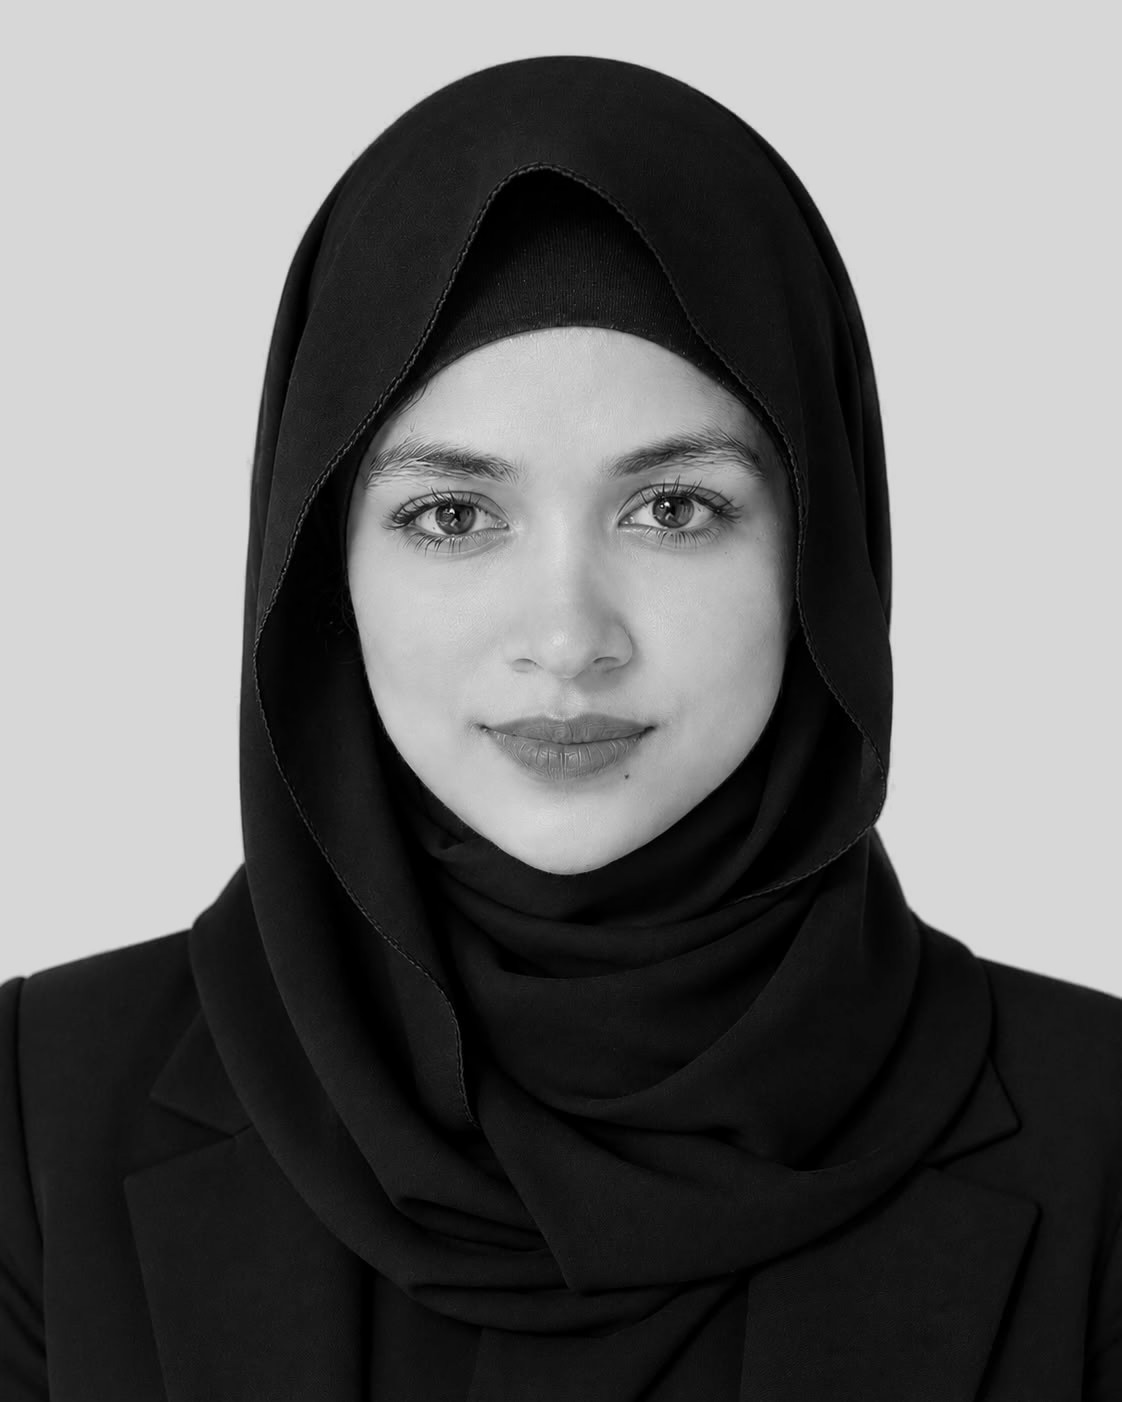
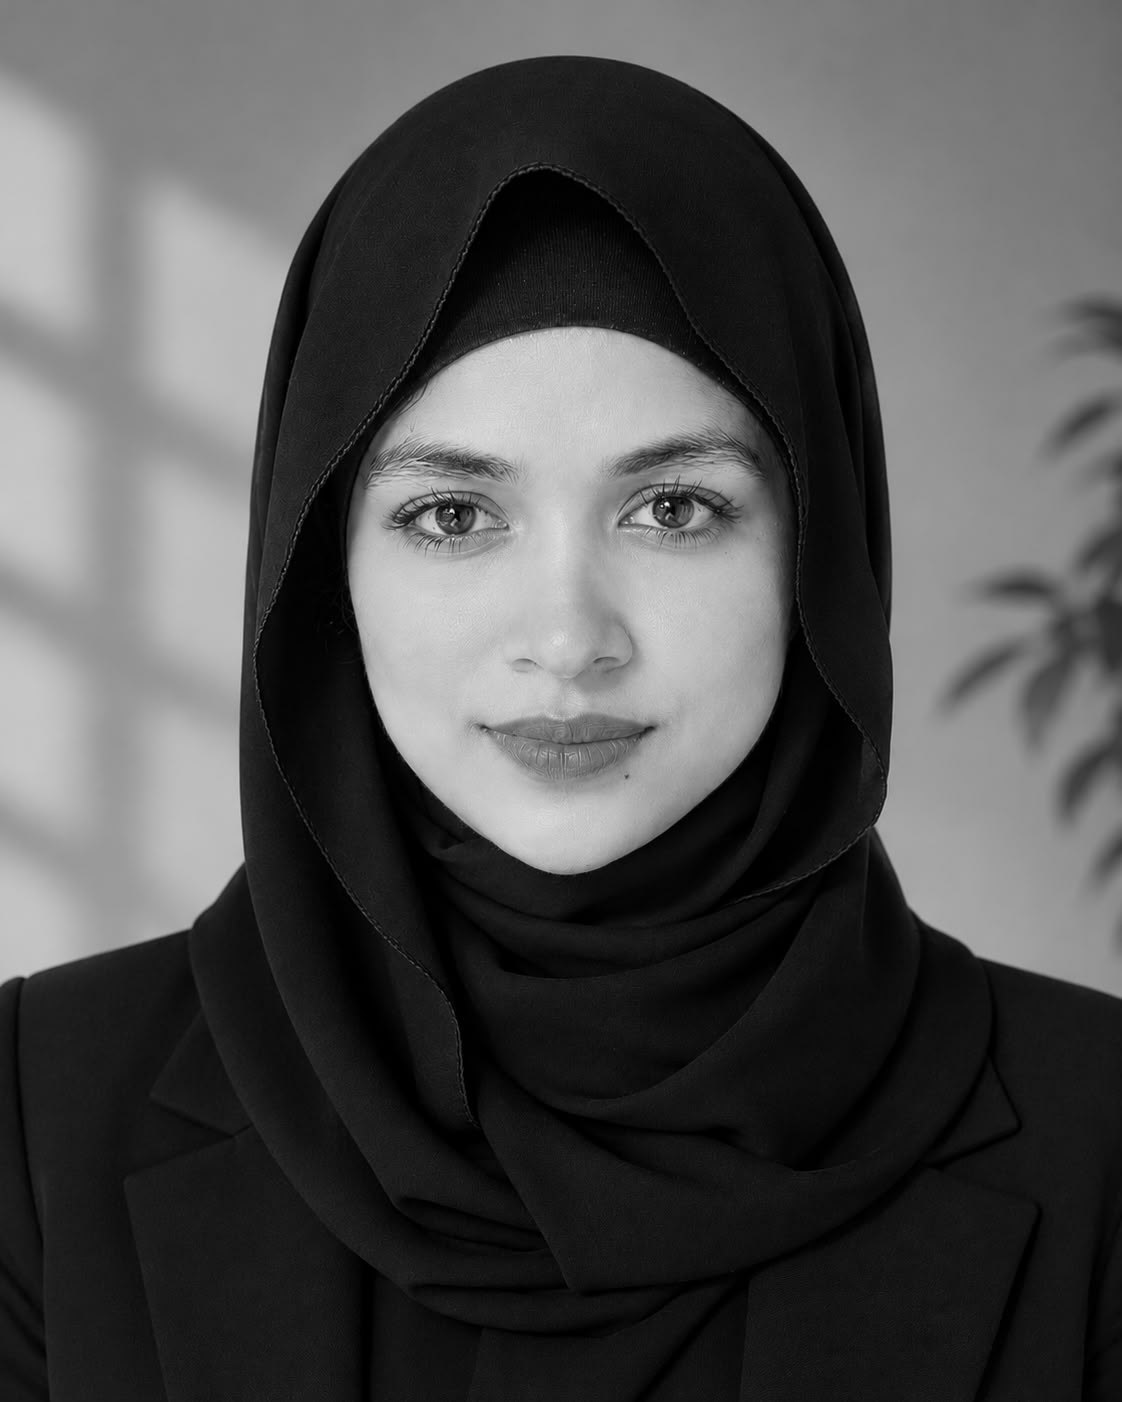
Portrait: restore original background, keep black and white
Claude-Session: https://claude.ai/code/session_01CcL7wFDHEa9dt9SNUbpBS5

diff --git a/about/index.html b/about/index.html
@@ -288,7 +288,7 @@ a.copy{display:inline-block;margin-top:14px;text-decoration:none}
 <header class="site-head">
   <div class="frame head-row">
     <a class="wordmark" href="../" aria-label="Sonia Sultana Tulona, home">
-      <img class="brand-mark" src="../portrait.jpg?v=bw2" width="40" height="40" alt="">
+      <img class="brand-mark" src="../portrait.jpg?v=bw3" width="40" height="40" alt="">
       <b>Tulona<span class="brand-dot">.</span></b>
     </a>
     <nav class="nav" aria-label="Sections">
@@ -322,7 +322,7 @@ a.copy{display:inline-block;margin-top:14px;text-decoration:none}
 
   <section class="sb">
     <aside class="sb-l">
-      <figure class="portrait"><img src="../portrait.jpg?v=bw2" width="900" height="1125" alt="Portrait of Sonia Sultana Tulona"><figcaption>Sonia Sultana Tulona</figcaption></figure>
+      <figure class="portrait"><img src="../portrait.jpg?v=bw3" width="900" height="1125" alt="Portrait of Sonia Sultana Tulona"><figcaption>Sonia Sultana Tulona</figcaption></figure>
       <div class="off"><p class="me-k">Off the clock</p><ul><li>Traveling</li><li>Lifting</li><li>Reading</li><li>Planning</li><li>Snack hunting</li><li>Side questing</li></ul></div>
     </aside>
     <div class="sb-r">

diff --git a/index.html b/index.html
@@ -292,7 +292,7 @@ a.banner:hover svg.sk{transform:translateY(-50%) rotate(-3deg)}
 <header class="site-head">
   <div class="frame head-row">
     <a class="wordmark" href="#top" aria-label="Sonia Sultana Tulona, home">
-      <img class="brand-mark" src="portrait.jpg?v=bw2" width="40" height="40" alt="">
+      <img class="brand-mark" src="portrait.jpg?v=bw3" width="40" height="40" alt="">
       <b>Tulona<span class="brand-dot">.</span></b>
     </a>
     <nav class="nav" aria-label="Sections">
@@ -318,7 +318,7 @@ a.banner:hover svg.sk{transform:translateY(-50%) rotate(-3deg)}
     <p class="hero-kicker"><span class="hero-rule"></span>Client Success &amp; Partnership</p>
     <h1 class="statement"><span>I get good products</span><span>in front of the</span><span>right people.</span></h1>
     <figure class="portrait">
-      <img src="portrait.jpg?v=bw2" width="900" height="900" alt="Portrait of Sonia Sultana Tulona" fetchpriority="high">
+      <img src="portrait.jpg?v=bw3" width="900" height="900" alt="Portrait of Sonia Sultana Tulona" fetchpriority="high">
       <figcaption><span>Sonia Sultana Tulona</span><span>Communication Specialist</span></figcaption>
     </figure>
     <div class="hero-foot">

diff --git a/journal/a-good-word-is-charity/index.html b/journal/a-good-word-is-charity/index.html
@@ -281,7 +281,7 @@ a.banner:hover svg.sk{transform:translateY(-50%) rotate(-3deg)}
 <header class="site-head">
   <div class="frame head-row">
     <a class="wordmark" href="../../" aria-label="Sonia Sultana Tulona, home">
-      <img class="brand-mark" src="../../portrait.jpg?v=bw2" width="40" height="40" alt="">
+      <img class="brand-mark" src="../../portrait.jpg?v=bw3" width="40" height="40" alt="">
       <b>Tulona<span class="brand-dot">.</span></b>
     </a>
     <nav class="nav" aria-label="Sections">

diff --git a/journal/intention-before-action/index.html b/journal/intention-before-action/index.html
@@ -281,7 +281,7 @@ a.banner:hover svg.sk{transform:translateY(-50%) rotate(-3deg)}
 <header class="site-head">
   <div class="frame head-row">
     <a class="wordmark" href="../../" aria-label="Sonia Sultana Tulona, home">
-      <img class="brand-mark" src="../../portrait.jpg?v=bw2" width="40" height="40" alt="">
+      <img class="brand-mark" src="../../portrait.jpg?v=bw3" width="40" height="40" alt="">
       <b>Tulona<span class="brand-dot">.</span></b>
     </a>
     <nav class="nav" aria-label="Sections">

diff --git a/journal/love-for-your-brother/index.html b/journal/love-for-your-brother/index.html
@@ -281,7 +281,7 @@ a.banner:hover svg.sk{transform:translateY(-50%) rotate(-3deg)}
 <header class="site-head">
   <div class="frame head-row">
     <a class="wordmark" href="../../" aria-label="Sonia Sultana Tulona, home">
-      <img class="brand-mark" src="../../portrait.jpg?v=bw2" width="40" height="40" alt="">
+      <img class="brand-mark" src="../../portrait.jpg?v=bw3" width="40" height="40" alt="">
       <b>Tulona<span class="brand-dot">.</span></b>
     </a>
     <nav class="nav" aria-label="Sections">

diff --git a/journal/the-honest-merchant/index.html b/journal/the-honest-merchant/index.html
@@ -281,7 +281,7 @@ a.banner:hover svg.sk{transform:translateY(-50%) rotate(-3deg)}
 <header class="site-head">
   <div class="frame head-row">
     <a class="wordmark" href="../../" aria-label="Sonia Sultana Tulona, home">
-      <img class="brand-mark" src="../../portrait.jpg?v=bw2" width="40" height="40" alt="">
+      <img class="brand-mark" src="../../portrait.jpg?v=bw3" width="40" height="40" alt="">
       <b>Tulona<span class="brand-dot">.</span></b>
     </a>
     <nav class="nav" aria-label="Sections">

diff --git a/journal/tie-your-camel/index.html b/journal/tie-your-camel/index.html
@@ -281,7 +281,7 @@ a.banner:hover svg.sk{transform:translateY(-50%) rotate(-3deg)}
 <header class="site-head">
   <div class="frame head-row">
     <a class="wordmark" href="../../" aria-label="Sonia Sultana Tulona, home">
-      <img class="brand-mark" src="../../portrait.jpg?v=bw2" width="40" height="40" alt="">
+      <img class="brand-mark" src="../../portrait.jpg?v=bw3" width="40" height="40" alt="">
       <b>Tulona<span class="brand-dot">.</span></b>
     </a>
     <nav class="nav" aria-label="Sections">

diff --git a/brands/index.html b/brands/index.html
@@ -305,7 +305,7 @@ a.copy{display:inline-block;margin-top:14px;text-decoration:none}
 <header class="site-head">
   <div class="frame head-row">
     <a class="wordmark" href="../" aria-label="Sonia Sultana Tulona, home">
-      <img class="brand-mark" src="../portrait.jpg?v=bw2" width="40" height="40" alt="">
+      <img class="brand-mark" src="../portrait.jpg?v=bw3" width="40" height="40" alt="">
       <b>Tulona<span class="brand-dot">.</span></b>
     </a>
     <nav class="nav" aria-label="Sections">

diff --git a/work/index.html b/work/index.html
@@ -296,7 +296,7 @@ a.copy{display:inline-block;margin-top:14px;text-decoration:none}
 <header class="site-head">
   <div class="frame head-row">
     <a class="wordmark" href="../" aria-label="Sonia Sultana Tulona, home">
-      <img class="brand-mark" src="../portrait.jpg?v=bw2" width="40" height="40" alt="">
+      <img class="brand-mark" src="../portrait.jpg?v=bw3" width="40" height="40" alt="">
       <b>Tulona<span class="brand-dot">.</span></b>
     </a>
     <nav class="nav" aria-label="Sections">

diff --git a/journal/index.html b/journal/index.html
@@ -284,7 +284,7 @@ a.banner:hover svg.sk{transform:translateY(-50%) rotate(-3deg)}
 <header class="site-head">
   <div class="frame head-row">
     <a class="wordmark" href="../" aria-label="Sonia Sultana Tulona, home">
-      <img class="brand-mark" src="../portrait.jpg?v=bw2" width="40" height="40" alt="">
+      <img class="brand-mark" src="../portrait.jpg?v=bw3" width="40" height="40" alt="">
       <b>Tulona<span class="brand-dot">.</span></b>
     </a>
     <nav class="nav" aria-label="Sections">
